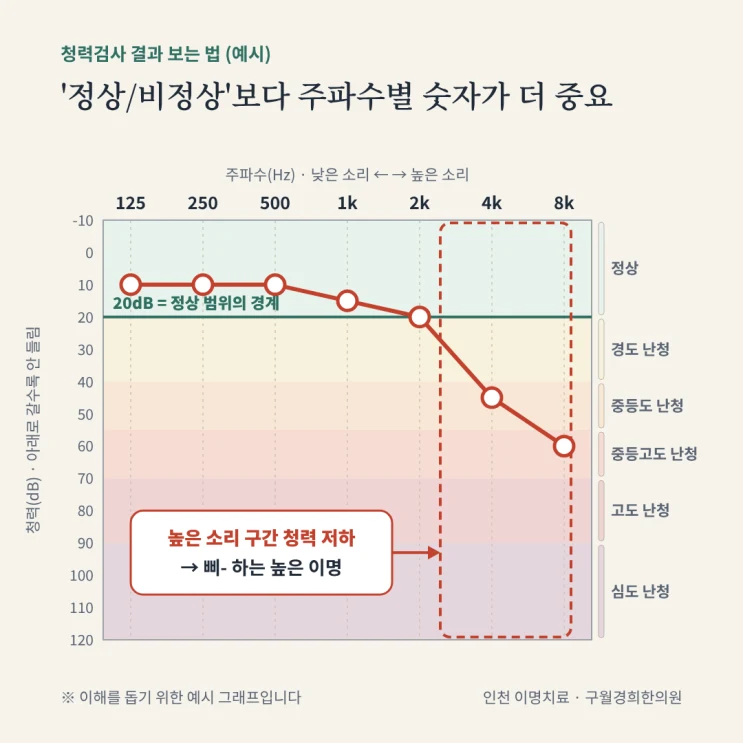
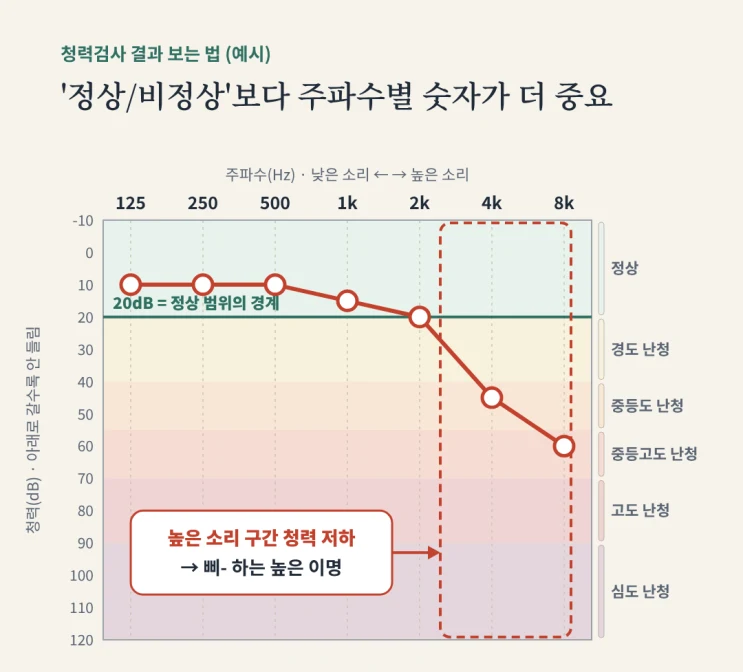
칼럼 원장 소개 박스 추가, 밤 이명 칼럼 그림의 블로그 문구 잘라냄

diff --git a/src/pages/tinnitus/worse-at-night.html b/src/pages/tinnitus/worse-at-night.html
@@ -27,12 +27,12 @@
         <li><strong>그래서 악순환이 생깁니다.</strong> 밤에 소리가 커짐 → 잠을 설침 → 다음 날 더 피곤하고 긴장함 → 교감신경이 더 켜짐 → 그날 밤 소리가 더 커짐.</li>
       </ol>
       <figure class="figure">
-        <img src="/images/columns/tinnitus-autonomic-imbalance.webp" alt="오랜 스트레스로 자율신경계 균형이 무너지면 이명과 함께 귀먹먹함, 어지럼증, 불면증, 만성 두통 같은 증상이 나타날 수 있음을 보여 주는 그림" width="743" height="743" loading="lazy">
+        <img src="/images/columns/tinnitus-autonomic-imbalance.webp" alt="오랜 스트레스로 자율신경계 균형이 무너지면 이명과 함께 귀먹먹함, 어지럼증, 불면증, 만성 두통 같은 증상이 나타날 수 있음을 보여 주는 그림" width="743" height="690" loading="lazy">
         <figcaption>오랜 스트레스로 자율신경계 균형이 무너지면 이명과 함께 여러 증상이 나타날 수 있습니다. (대표원장 직접 제작)</figcaption>
       </figure>
       <p>청력이 떨어진 자리에서 생긴 이명도 조용할 때 더 잘 들립니다. 청력검사에서 '정상'을 들으셨더라도 20dB 가까이 나오면 경도 난청과의 경계일 수 있어, 결과지의 주파수별 숫자를 함께 봅니다.</p>
       <figure class="figure">
-        <img src="/images/columns/tinnitus-audiogram-example.webp" alt="청력검사 결과 예시 그래프. 20dB까지가 정상 범위이고, 높은 소리 구간의 청력이 떨어지면 삐 하는 높은 이명이 생길 수 있음을 표시" width="743" height="743" loading="lazy">
+        <img src="/images/columns/tinnitus-audiogram-example.webp" alt="청력검사 결과 예시 그래프. 20dB까지가 정상 범위이고, 높은 소리 구간의 청력이 떨어지면 삐 하는 높은 이명이 생길 수 있음을 표시" width="743" height="672" loading="lazy">
         <figcaption>청력검사 결과는 '정상/비정상'보다 주파수별 숫자를 함께 봅니다. (이해를 돕기 위한 예시 그래프)</figcaption>
       </figure>
     </div>

diff --git a/src/style.css b/src/style.css
@@ -369,3 +369,9 @@ a:focus-visible, button:focus-visible, summary:focus-visible { outline: 3px soli
 .location-note { margin: 6px 0 0; font-size: 15px; color: var(--ink-sub); }
 .cta-fee { margin: 14px 0 0; }
 .cta-fee a { color: #fff; font-weight: 700; text-underline-offset: 3px; }
+
+/* 칼럼 아래 대표원장 소개 박스 */
+.director-box .director-photo { max-width: 560px; }
+.director-box-name { font-size: 26px; font-weight: 800; margin: 0 0 14px; }
+.director-box-name span { font-size: 17px; font-weight: 600; color: var(--green); margin-left: 6px; }
+.director-box-bio { list-style: disc; margin: 0; padding-left: 22px; color: var(--ink-sub); font-size: 17px; line-height: 1.8; }

diff --git a/build.py b/build.py
@@ -287,6 +287,21 @@ def render_columns(cfg, pg):
             f'<ul class="columns">{cards}</ul></section>')
 
 
+def render_director_box(cfg, pg):
+    """칼럼 페이지(상위 질환이 있는 페이지) 아래에 대표원장 사진·약력 박스를 붙입니다."""
+    if not pg.get("parent"):
+        return ""
+    d = cfg["director"]
+    start = int(cfg["careerStartYear"])
+    bio = [f"{start}년부터 {date.today().year - start + 1}년째 이명 진료"] + d.get("columnBio", [])
+    items = "".join(f"<li>{e(x)}</li>" for x in bio)
+    return ('<section class="section director-box">'
+            f'<img class="director-photo" src="/{quote(d["photo"])}" alt="{e(d["photoAlt"])}" width="1200" height="750" loading="lazy">'
+            f'<h2 class="director-box-name">{e(d["name"])} <span>{e(d["title"])}</span></h2>'
+            f'<ul class="director-box-bio">{items}</ul>'
+            '<p class="note"><a href="/director/">대표원장 소개 자세히 보기</a></p></section>')
+
+
 def render_page_cta(cfg):
     notes = "".join(f"<li>{e(n)}</li>" for n in cfg.get("hoursNotes", []))
     fee = ('<p class="cta-fee"><a href="/npay/">한약·검사 비용 안내 ›</a></p>'
@@ -437,7 +452,7 @@ def main():
                    f'{e(cfg["director"]["title"])} {e(cfg["director"]["name"])}</p>' if pg.get("reviewed") else "")
                 + '</section>')
         content = (hero + "\n" + body + "\n" + render_columns(cfg, pg) + "\n" + render_faq(pg.get("faq"), heading=pg.get("kind") != "faq") + "\n"
-                   + render_related(pg.get("related")) + "\n" + render_page_cta(cfg))
+                   + render_director_box(cfg, pg) + "\n" + render_related(pg.get("related")) + "\n" + render_page_cta(cfg))
         pctx = dict(ctx)
         pctx.update({
             "pageTitle": e(pg["title"]),
